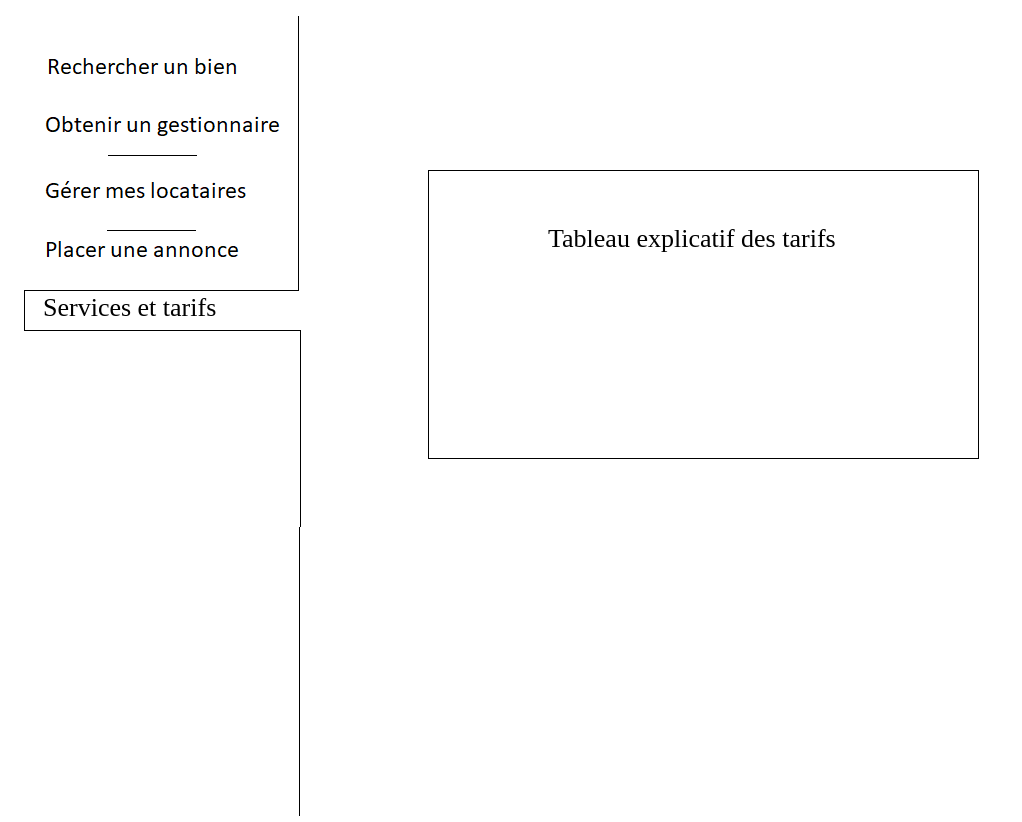
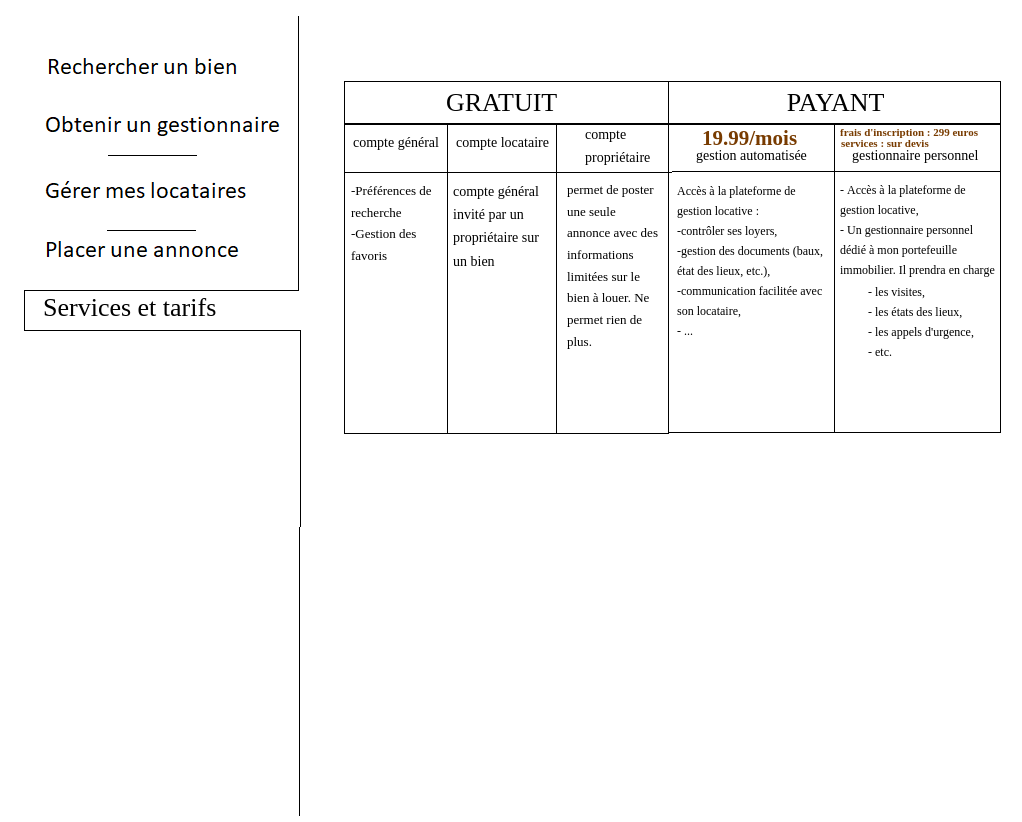
ajout tarifs

Changed region(s): [[0.3337, 0.0912, 0.9706, 0.4258], [0.637, 0.1217, 0.6673, 0.1521]]

diff --git a/wireframe/locataire.html b/wireframe/locataire.html
@@ -1,0 +1,16 @@
+<!doctype html>
+<html lang="fr">
+<head>
+  <meta charset="utf-8">
+  <title>Propr.io</title>
+  <style>
+
+  </style>
+</head>
+<body>
+  <img src="img/proprietaire/proprietaire.png" style="width:100%"/>
+
+
+
+</body>
+</html>

diff --git a/contact.html b/contact.html
@@ -37,6 +37,7 @@ body{
   </div>
   <div>
     <strong>Michael Marloye</strong>
+		<p>michaelmarloye@hotmail.com<p>
     <p>+32 497 85 14 39</p>
   </div>
 </div>
